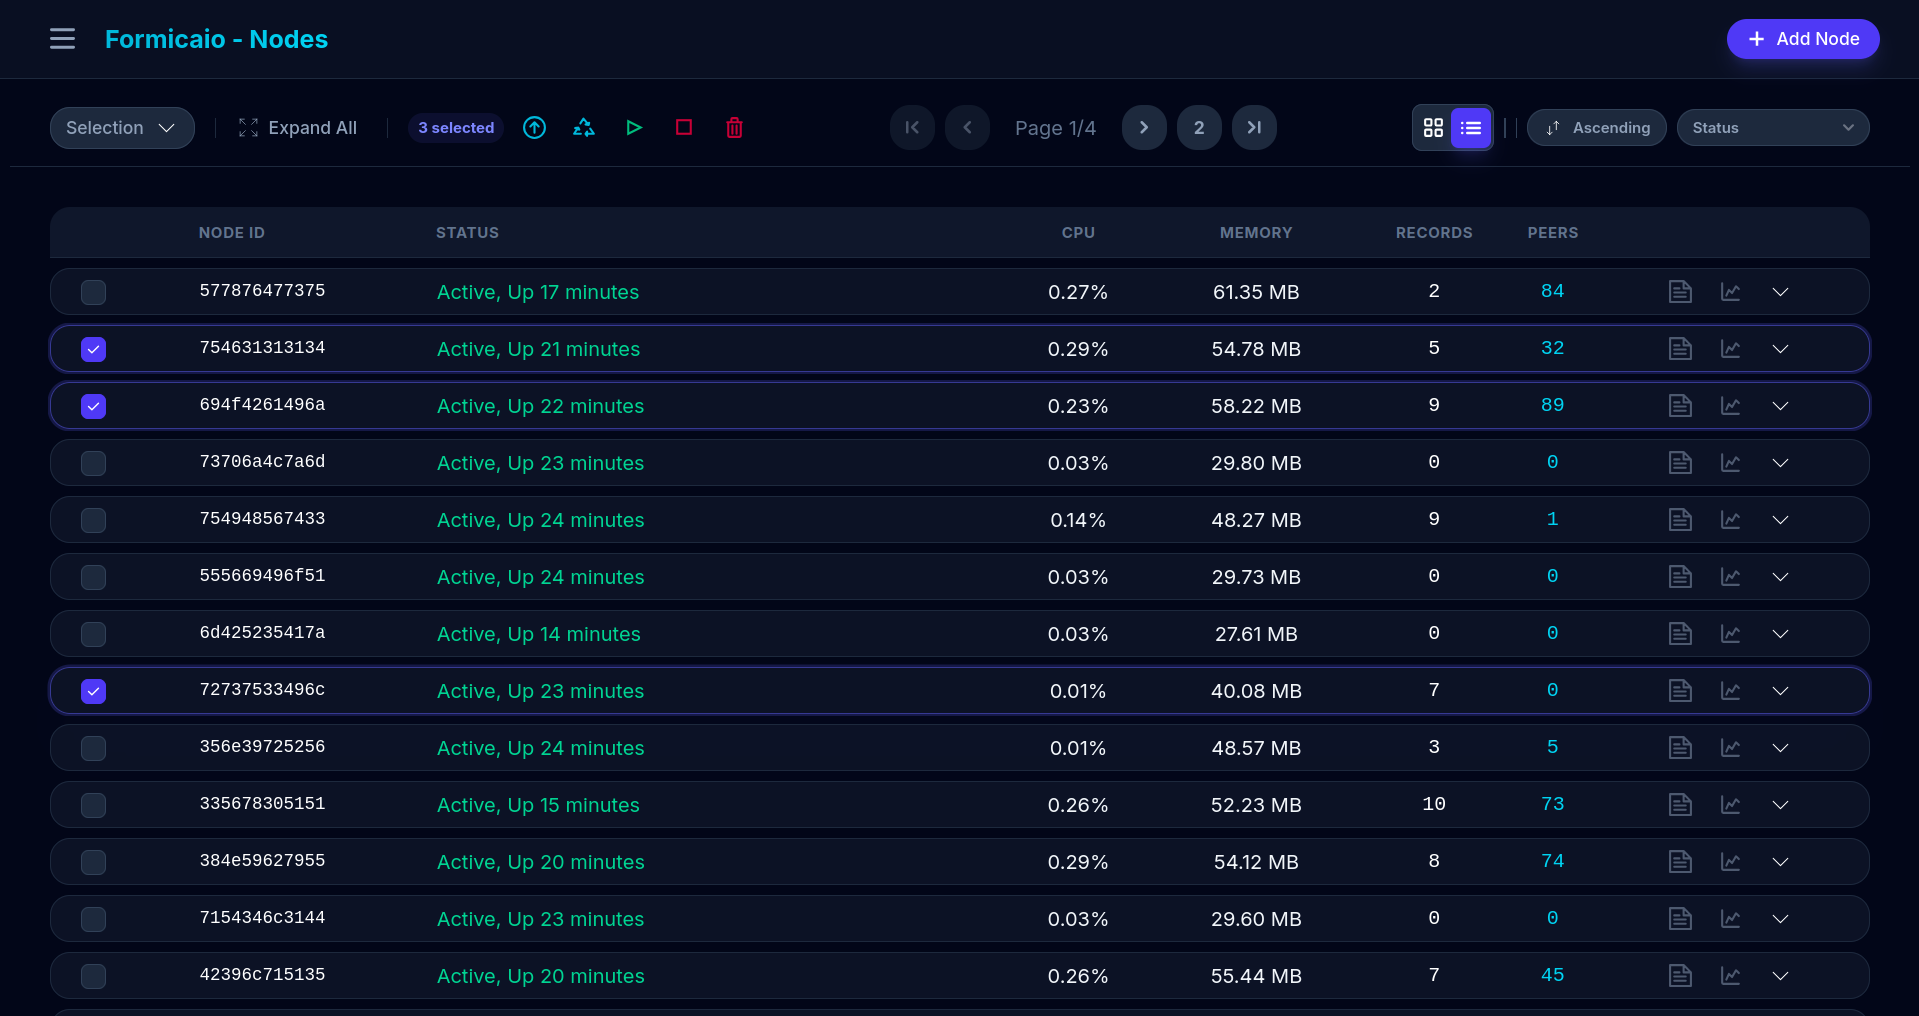
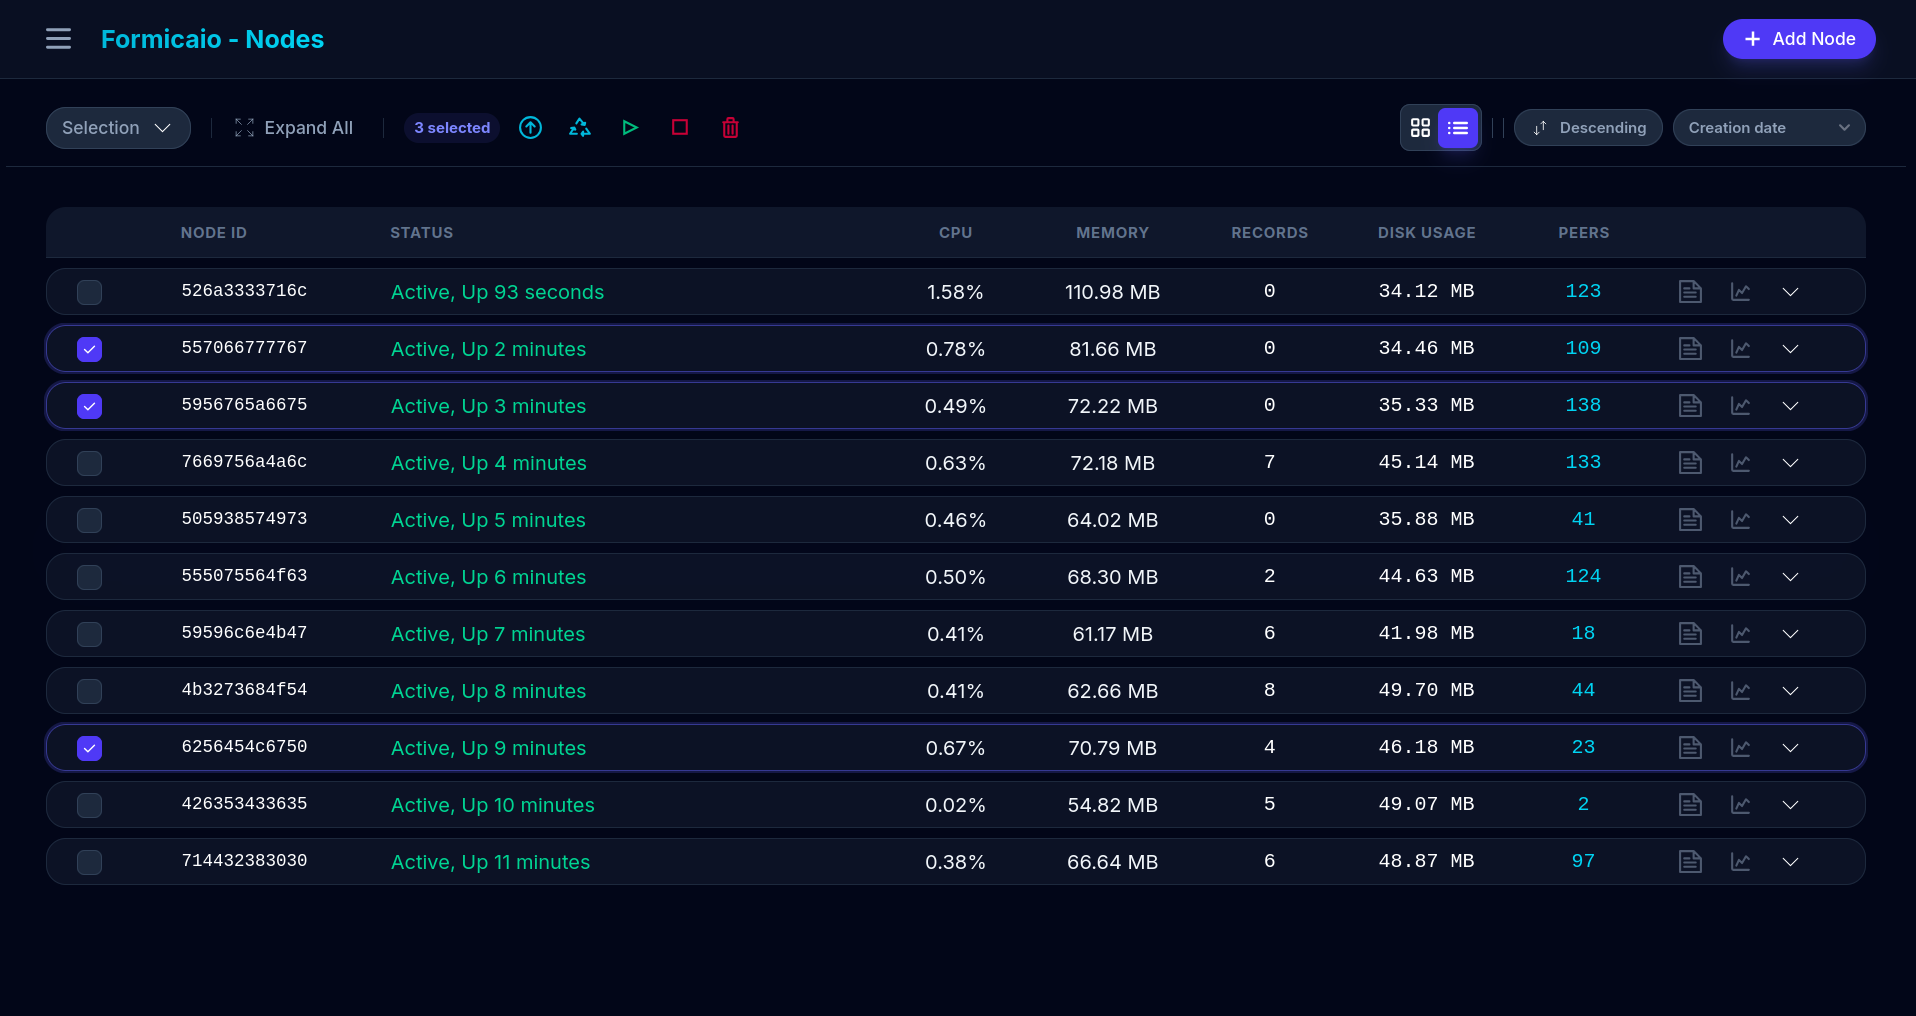
docs: update screenshots in readme

diff --git a/README.md b/README.md
@@ -52,8 +52,8 @@ With Formicaio, you can easily run and manage nodes using either a graphical use
 - **Alternate between tile and list layouts** in the nodes page.
 - **Terminal** to query and action on nodes through a CLI.
 
-<img src="img/screenshot_05.png" width="400" height="212" />
-<img src="img/screenshot_05_b.png" width="400" height="212" />
+<img src="img/screenshot_01.png" width="400" height="212" />
+<img src="img/screenshot_01_c.png" width="400" height="212" />
 <img src="img/screenshot_06.png" width="400" height="212" />
 
 ### 📊 Real-time Monitoring & Statistics
@@ -69,8 +69,8 @@ The Formicaio backend actively monitors your nodes, providing real-time status u
 - **Estimated total nodes** in the network
 - **Disk usage**
 
-<img src="img/screenshot_01_b.png" width="400" height="212" />
-<img src="img/screenshot_01.png" width="400" height="212" />
+<img src="img/screenshot_05.png" width="400" height="212" />
+<img src="img/screenshot_05_b.png" width="400" height="212" />
 <img src="img/screenshot_03.png" width="400" height="212" />
 
 ### ⚙ Customizable Settings
